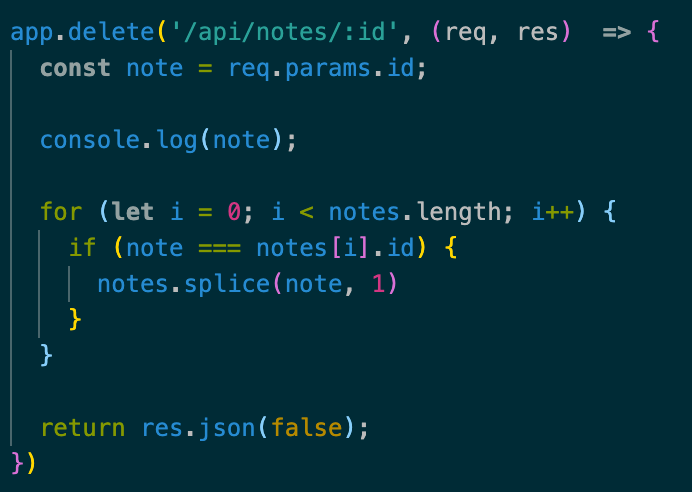
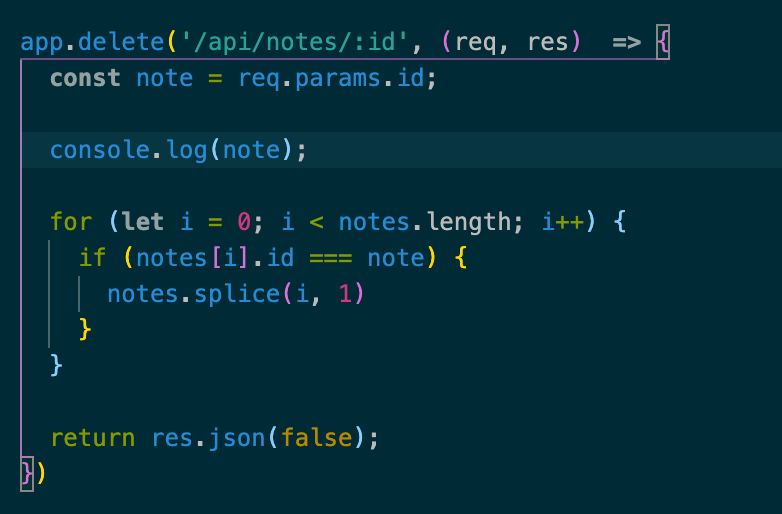
fixed ID bug

diff --git a/server.js b/server.js
@@ -2,6 +2,7 @@
 const express = require('express');
 const path = require('path');
 const { notes } = require('./data/db')
+var notesID = 1;
 
 //===============================================================================
 // create an instance of express to serve our end points
@@ -36,7 +37,7 @@ app.get('*', (req, res) => {
 });
 
 app.post('/api/notes', (req, res) => {
-  req.body.id = notes.length.toString();
+  req.body.id = `"${notesID++}"`;
 
   const newNote = req.body;
   console.log(newNote);
@@ -64,8 +65,8 @@ app.delete('/api/notes/:id', (req, res)  => {
   console.log(note);
 
   for (let i = 0; i < notes.length; i++) {
-    if (note === notes[i].id) {
-      notes.splice(note, 1)
+    if (notes[i].id === note) {
+      notes.splice(i, 1)
     }
   }
 

diff --git a/README.md b/README.md
@@ -8,12 +8,15 @@ Before:
 After:
 ![After delete Screenshot](/screenshots/after.png "After delete")
 
-Delte code:
+Delete code:
 ![Code for delete Screenshot](/screenshots/delete-code.png "Code for delete")
 
 The process to post data to our array of objects works perectly and unique ID's are added to every new entry.  Here is the screenshot demonstrating the array with said details:
 
 ![Api Screenshot](/screenshots/api.png "Api delete")
+
+Here is the code for adding unique IDs that are never duplicated:
+![ID code Screenshot](/screenshots/id.png "ID code")
 
 
 Here is a link to the deployed site via Heroku:
